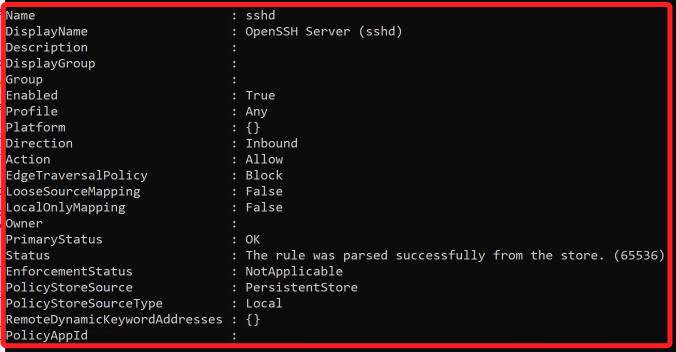
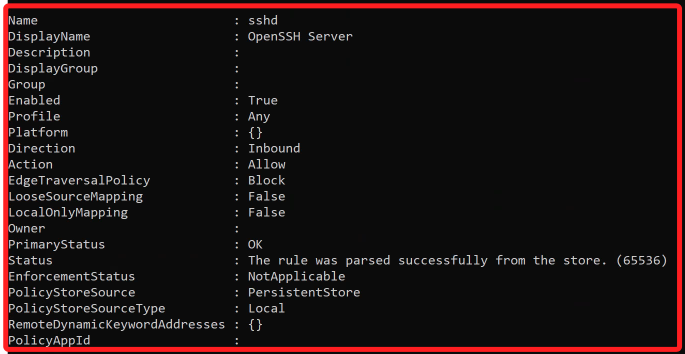
Commit on 2024-10-20 21:28:35

Changed region(s): [[0.0, 0.0, 1.0, 1.0], [0.3417, 0.25, 0.4349, 0.625]]

diff --git a/01_課程筆記/1017_B05/02_訪問 Windows 主機.md b/01_課程筆記/1017_B05/02_訪問 Windows 主機.md
@@ -314,7 +314,7 @@ _在 Windows 伺服器安裝 `OpenSSH Server` 可提供基於 `SSH` 協議的遠
 
 <br>
 
-4. 查詢當前端口。
+4. 查詢當前 `端口 22` 的規則。
 
     ```bash
     netsh advfirewall firewall show rule name=all | findstr 22
@@ -328,10 +328,10 @@ _在 Windows 伺服器安裝 `OpenSSH Server` 可提供基於 `SSH` 協議的遠
 
 <br>
 
-6. 手動開放防火牆上的 22 端口。
+6. 手動設置 `22 端口` 的防火牆規則，並任意命名如 `OpenSSH Server`。
 
     ```bash
-    powershell -Command "New-NetFirewallRule -Name sshd -DisplayName 'OpenSSH Server (sshd)' -Enabled True -Direction Inbound -Protocol TCP -Action Allow -LocalPort 22"
+    powershell -Command "New-NetFirewallRule -Name sshd -DisplayName 'OpenSSH Server' -Enabled True -Direction Inbound -Protocol TCP -Action Allow -LocalPort 22"
     ```
 
     ![](images/img_85.png)
@@ -341,7 +341,7 @@ _在 Windows 伺服器安裝 `OpenSSH Server` 可提供基於 `SSH` 協議的遠
 7. 查詢設定結果。
 
     ```bash
-    netsh advfirewall firewall show rule name="OpenSSH Server (sshd)"
+    netsh advfirewall firewall show rule name="OpenSSH Server"
     ```
 
     ![](images/img_86.png)
@@ -354,37 +354,43 @@ _需添加實例的進站規則_
 
 <br>
 
-1. 可在實例中編輯 `Inbound Rule` 添加 `SSH`。
+1. 可在實例中手動編輯 `Inbound Rule` 添加 `SSH`。
 
     ![](images/img_44.png)
 
 <br>
 
-2. 或使用 CLI 快速建立。
+2. 這裡示範使用 CLI 快速建立；以下 AWS CLI 指令要在本地電腦運行。
 
     ```bash
-    aws ec2 authorize-security-group-ingress --group-id <安全群組-ID> --protocol tcp --port 22 --cidr 0.0.0.0/0
+    aws ec2 authorize-security-group-ingress --group-id $Security_groups --protocol tcp --port 22 --cidr 0.0.0.0/0
     ```
 
     ![](images/img_87.png)
 
 <br>
 
-3. 傳送本機建立任意文件到 Windows，這裡示範使用 `~/Downloads` 中的 `test.txt`，傳送到 Windows C 槽的根目錄。
+3. 傳送本機建立任意文件到 Windows，這裡示範使用 `~/Downloads` 中的 `test.txt`，文件內僅有簡單字串如下。
+
+    ![](images/img_112.png)
+
+<br>
+
+4. ，傳送到 Windows C 槽的根目錄。
 
     ```bash
-    scp ~/Downloads/test.txt Administrator@<EC2-公共-IP>:C:
+    scp ~/Downloads/test.txt Administrator@$Public_IPv4_address:C:
     ```
 
 <br>
 
-4. 第一次連線會詢問是否確定，輸入 `yes` 後還要輸入密碼，然後就會立即傳送文件。
+5. 第一次連線會詢問是否確定，輸入 `yes` 後還要輸入密碼，然後就會立即傳送文件。
 
     ![](images/img_45.png)
 
 <br>
 
-5. 透過 smb 連線並查看。
+6. 透過 smb 連線並查看。
 
     ```bash
     smbclient //<EC2-公共-IP>/<共享名稱-C-槽> -U Administrator
@@ -394,7 +400,7 @@ _需添加實例的進站規則_
 
 <br>
 
-6. 下載為指定名稱；在 smb 中並無查看內容的指令，但是可以透過指令下載查看，特別注意，下載的文件會在使用 `smbclient` 登入的路徑中。
+7. 下載為指定名稱；在 smb 中並無查看內容的指令，但是可以透過指令下載查看，特別注意，下載的文件會在使用 `smbclient` 登入的路徑中。
 
     ```bash
     get test.txt test02.txt
@@ -402,7 +408,7 @@ _需添加實例的進站規則_
 
     <br>
 
-7. 使用 `exit` 指令退出連線，並在路徑中使用 `ls` 指令查詢，就會看到下載的文件了。
+8. 使用 `exit` 指令退出連線，並在路徑中使用 `ls` 指令查詢，就會看到下載的文件了。
 
     ![](images/img_93.png)
 
